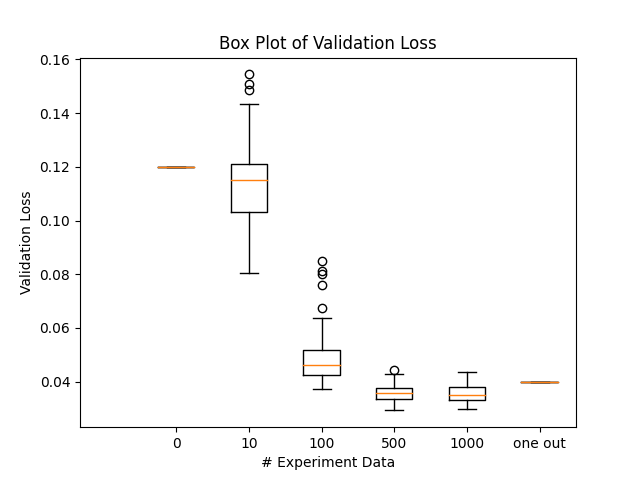
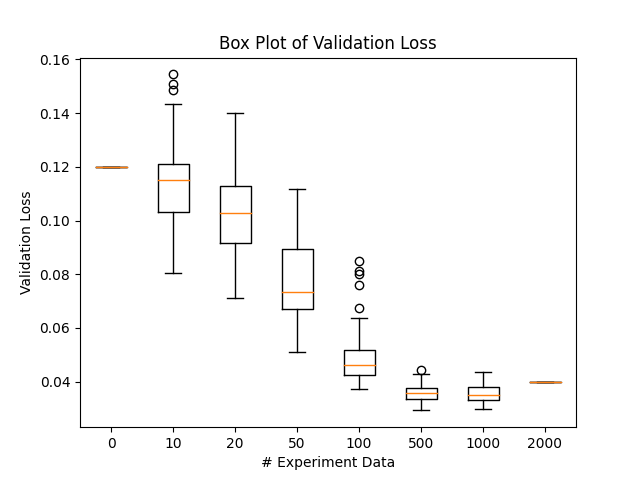
wip

diff --git a/polt_box_plot.py b/polt_box_plot.py
@@ -2,7 +2,7 @@ import numpy as np
 from matplotlib import pyplot as plt
 
 data_path = "../temp/val_loss_array_211003-111953.npy"
-data_path_20_50 = "../temp/val_loss_array_211003-111953_20_50.npy"
+data_path_20_50 = "../temp/val_loss_array_step_211003-111953_20_50.npy"
 
 # load data
 data = np.load(data_path, allow_pickle=True)
@@ -72,7 +72,7 @@ n_1000_loss = n_1000_loss[:,min_loss_index]
 # take mean over ax 2
 
 # make box plot of the data
-plt.boxplot(n_0_loss,[n_10_loss, n_20_loss, n_50_loss, n_100_loss, n_500_loss, n_1000_loss, n_one_out_loss], labels=['0','10', '20', '50', '100', '500', '1000','2000'])
+plt.boxplot([n_0_loss,n_10_loss, n_20_loss, n_50_loss, n_100_loss, n_500_loss, n_1000_loss, n_one_out_loss], labels=['0','10', '20', '50', '100', '500', '1000','2000'])
 plt.title("Box Plot of Validation Loss")
 plt.ylabel("Validation Loss")
 plt.xlabel("# Experiment Data")

diff --git a/fine_tune_step.py b/fine_tune_step.py
@@ -81,16 +81,11 @@ def main(model_name, data_path, batch_size, epochs, lr, weight_decay, cuda, loca
 
     ## determin the datasets:
 
-    sample_sizes = np.array([10, 20, 50, 100, 500, 1000])
-    sample_sizes = np.array([ 20, 50])
-    min_epoch = 2
-    min_sampels = 10
-    sampels = np.array([100, 100, 100, 100, 100, 100])
-    sampels = np.array([100, 100])
-    epochs = np.array([20, 20, 10, 10, 4, 2])
-    epochs = np.array([10, 10])
-
-    # create the datasets
+    sample_sizes = np.array([10, 20, 30, 40, 50, 60, 70, 80, 90, 100, 200, 300, 400, 500, 1000, 2000])
+    sampels = np.ones(len(sample_sizes)) *200
+    epochs = np.ones(len(sample_sizes)) *10
+    
+        # create the datasets
 
     train_dataloader_list =  []
     val_dataloader_list = []
